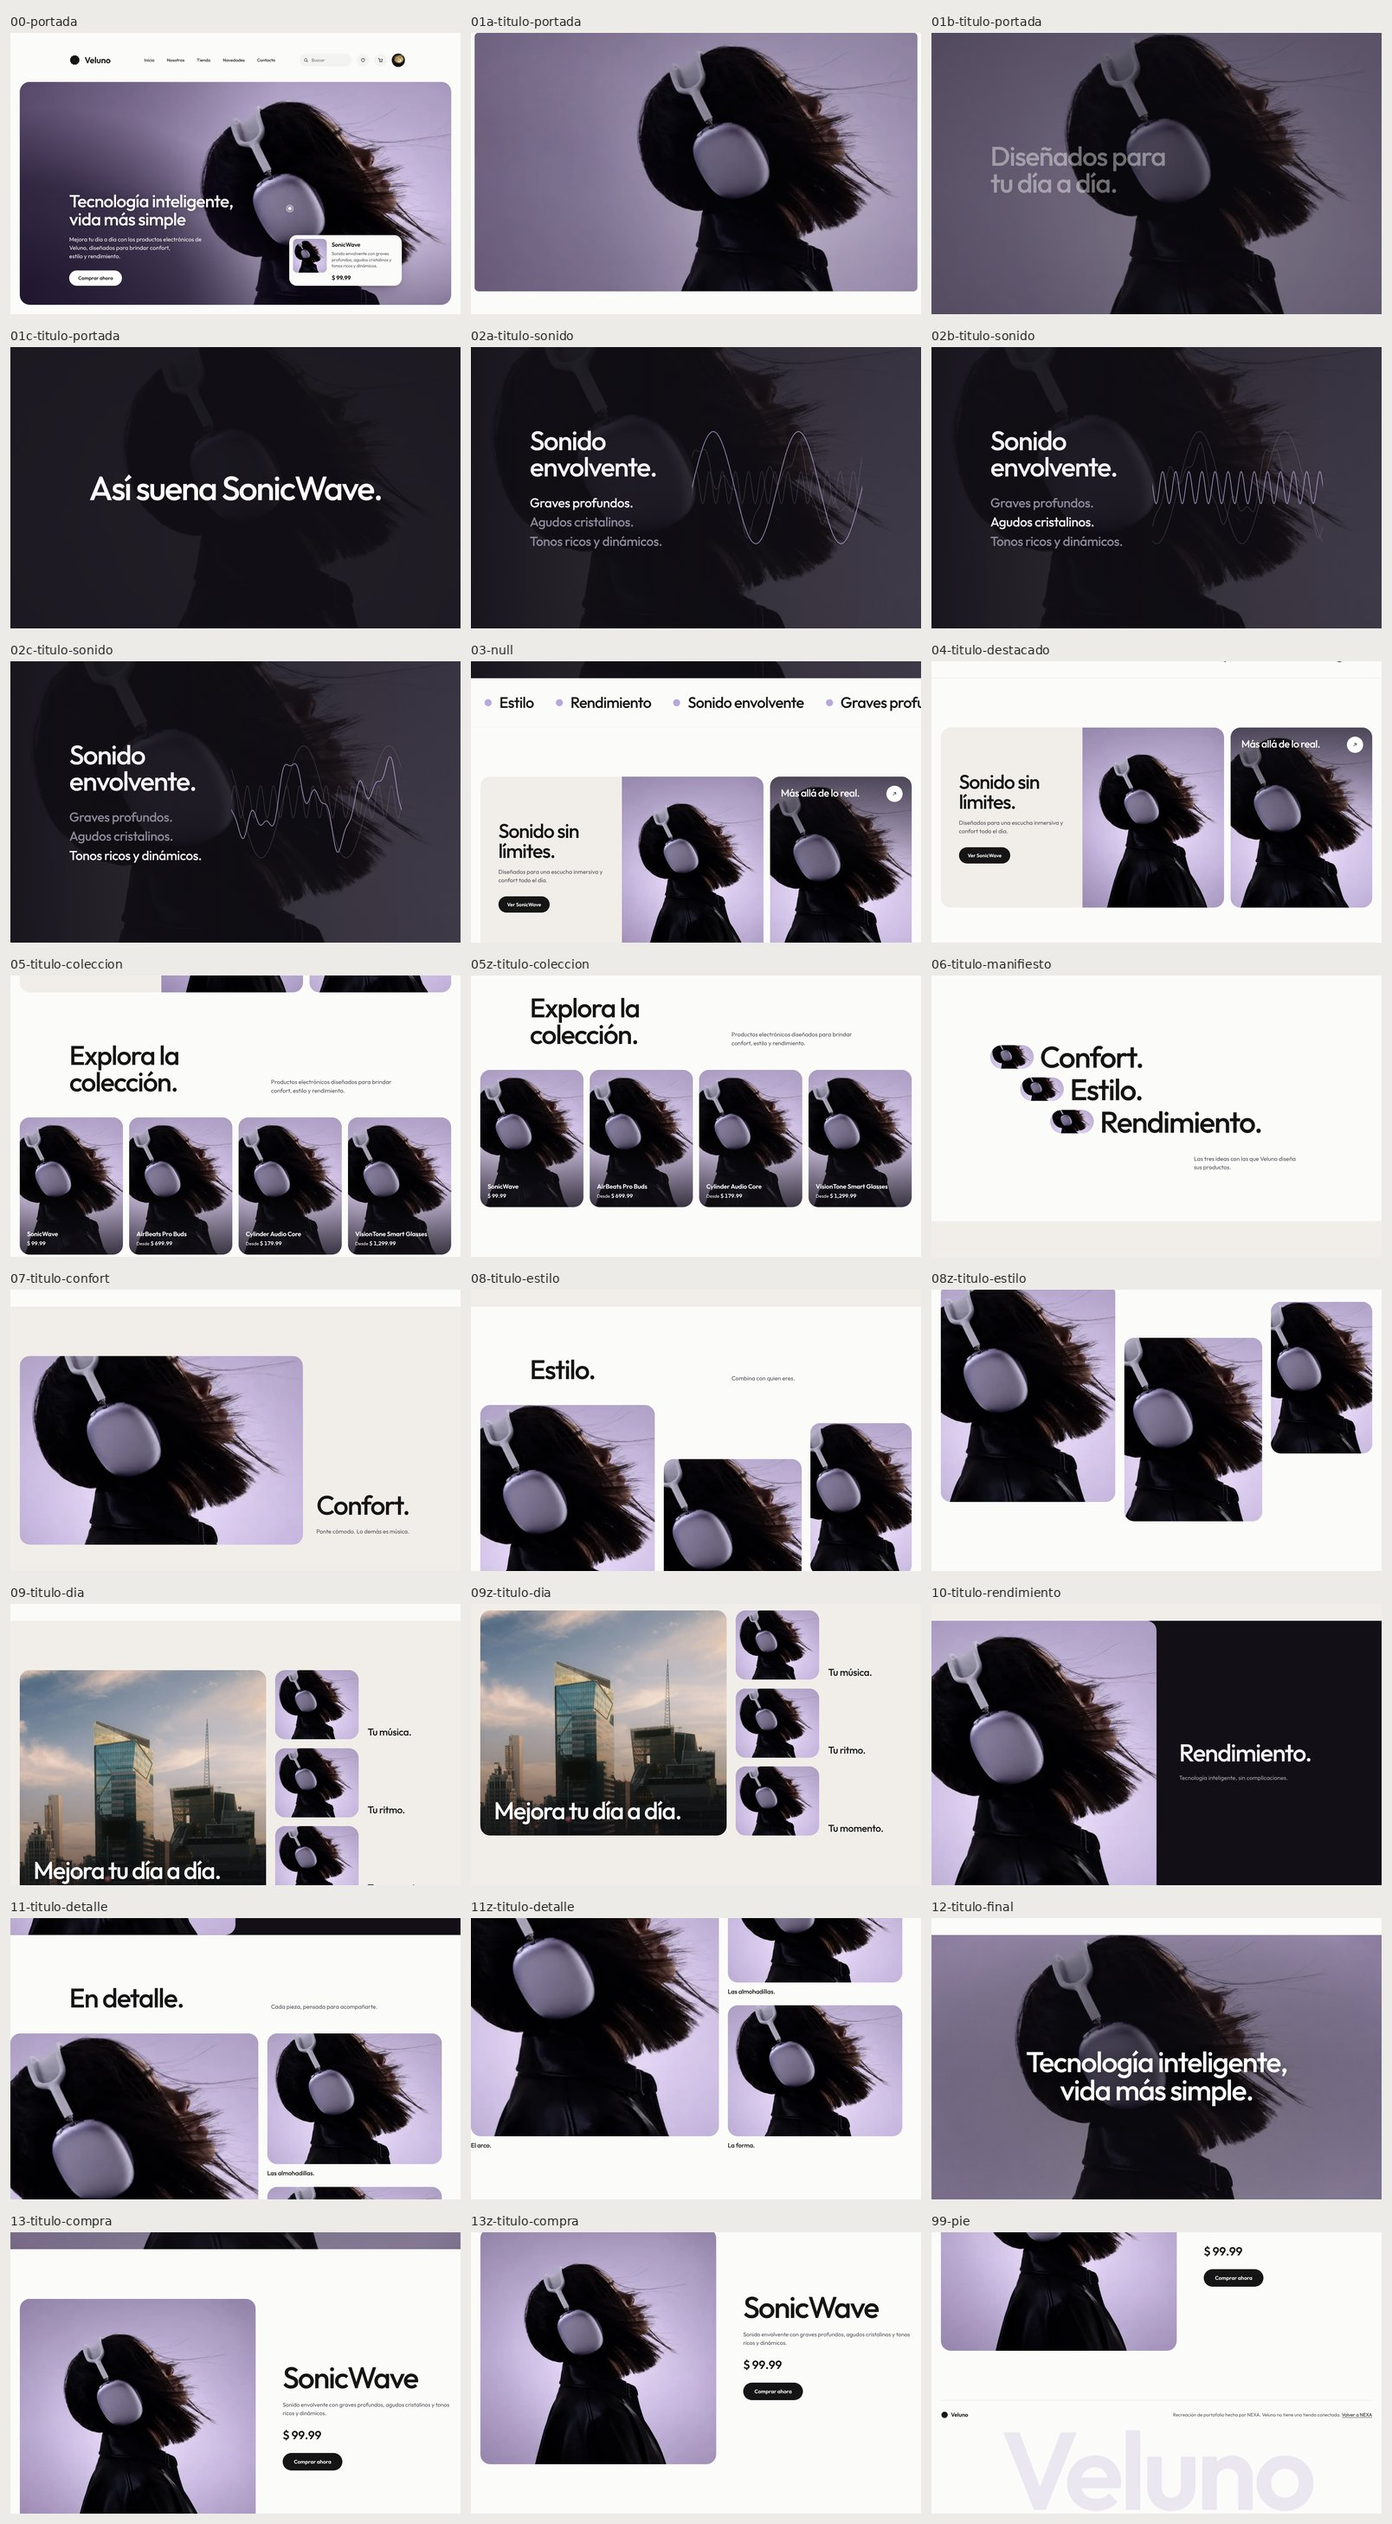
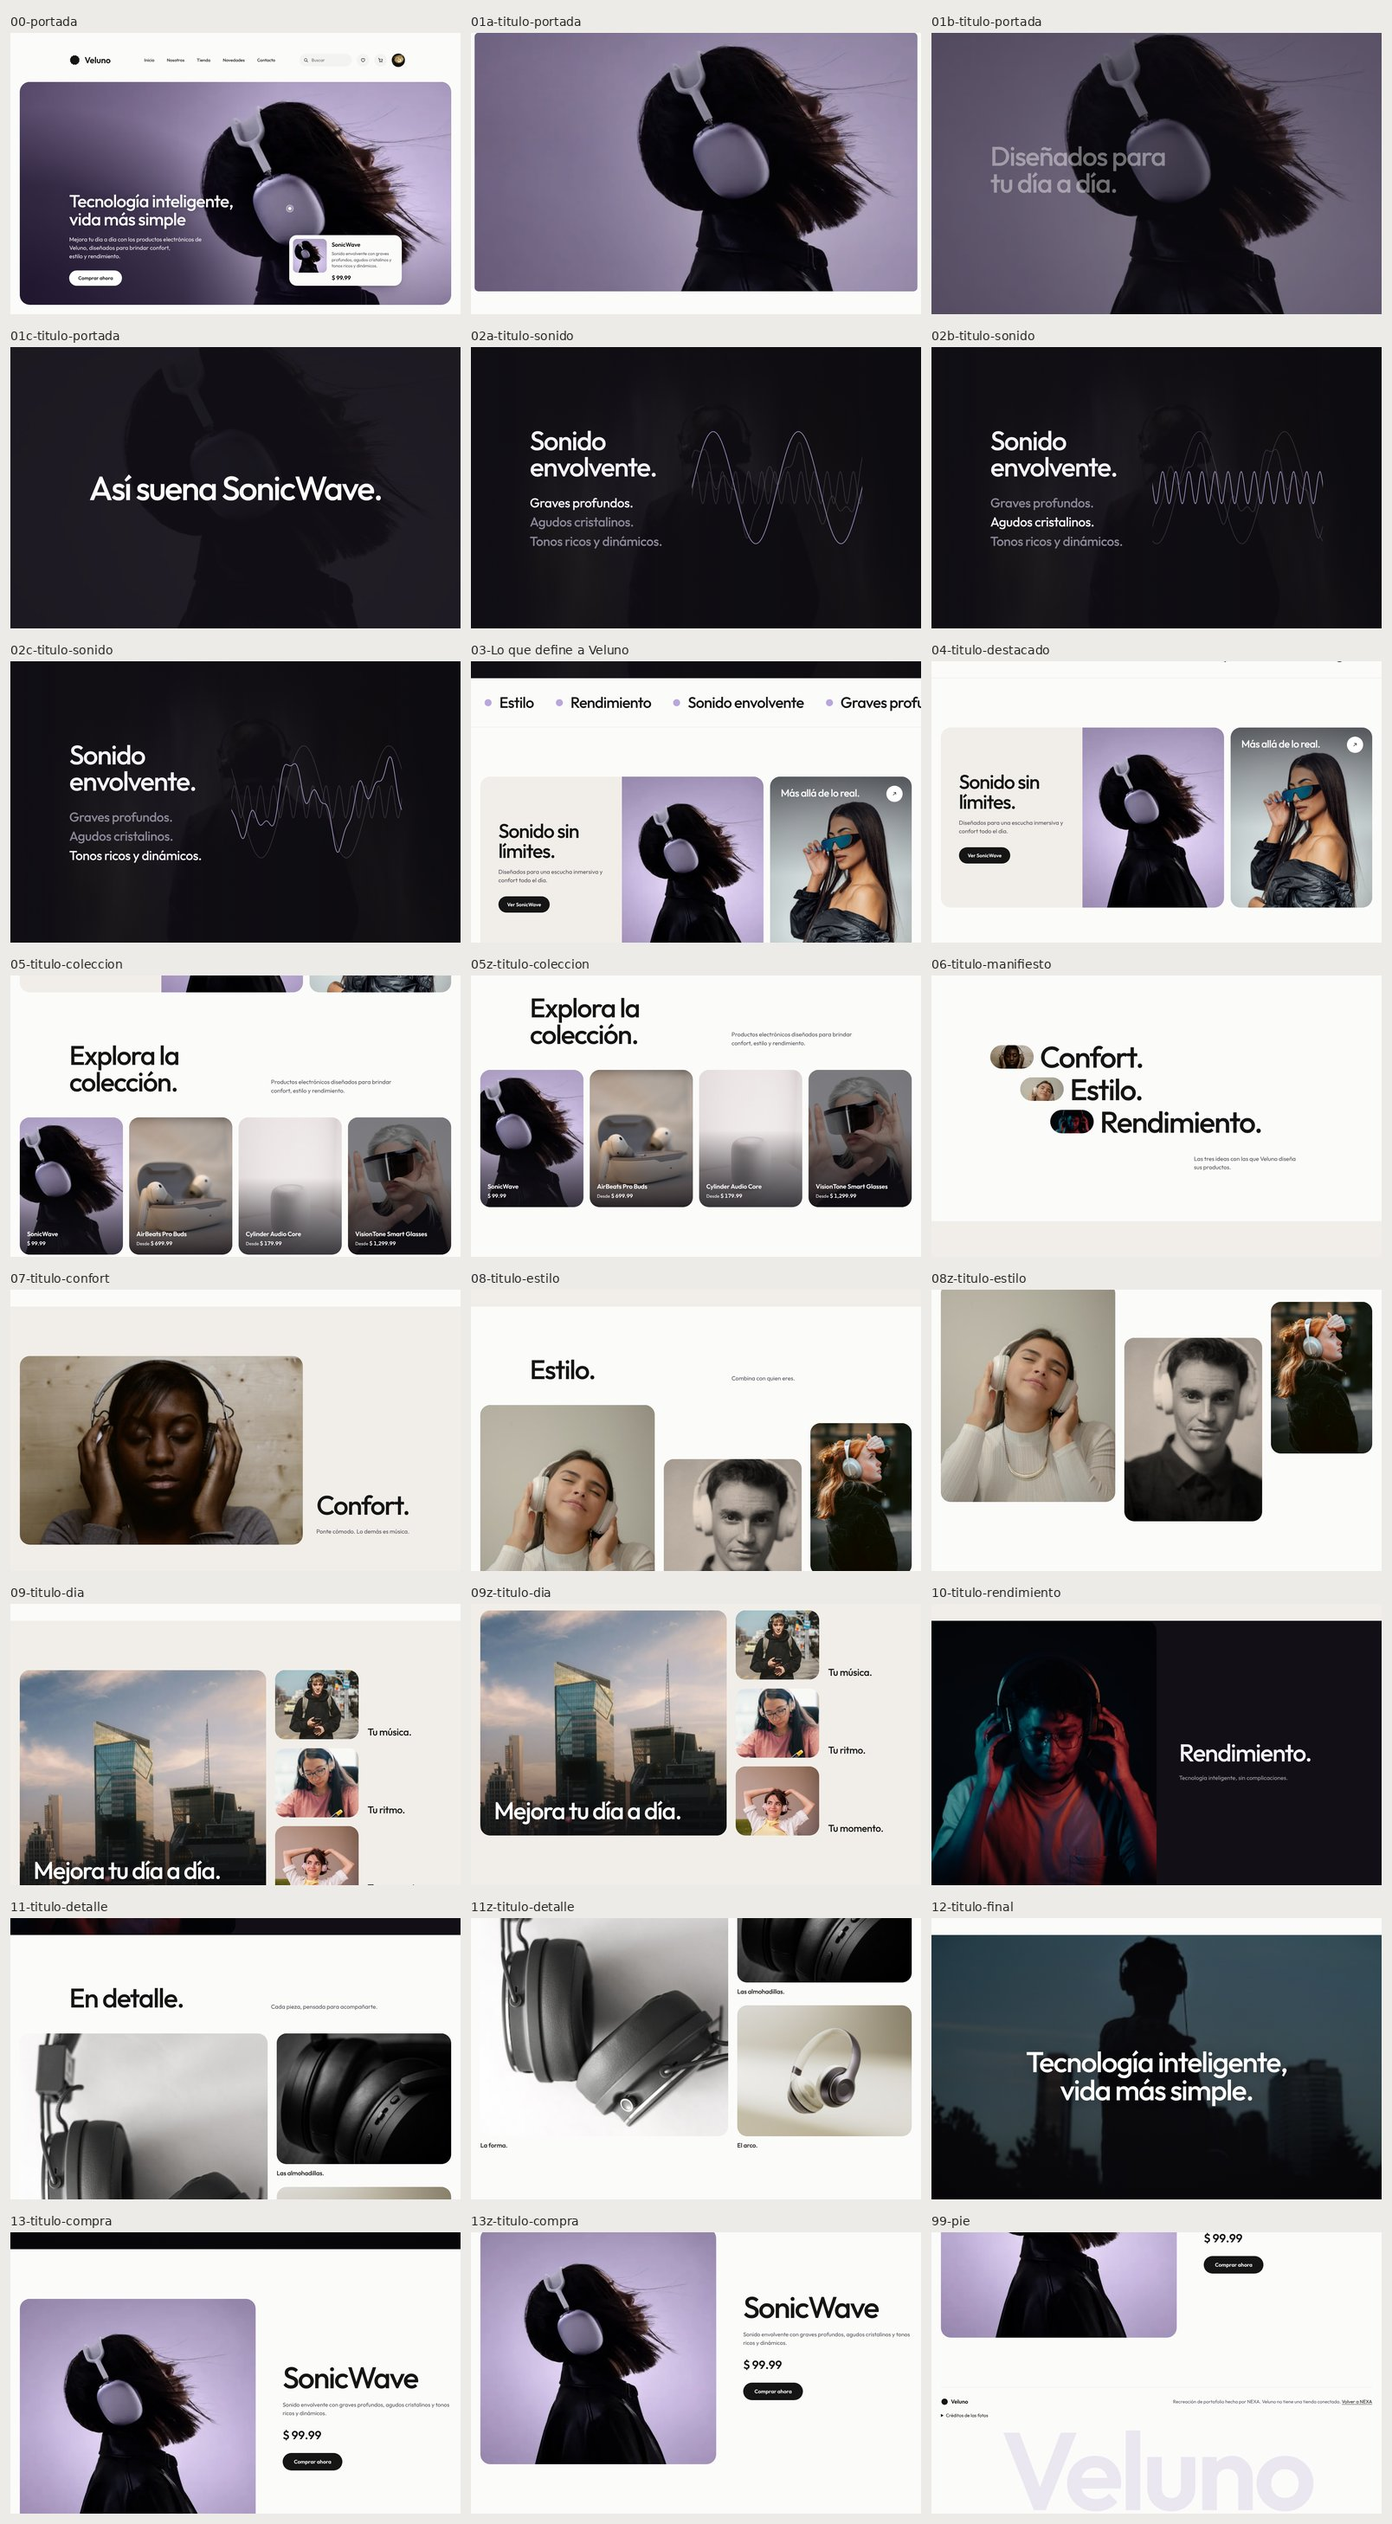
feat(veluno): 17 fotos de Unsplash en alta resolución para la tienda
- Fotos elegidas por hueco (sonido, colección, destacado, confort, estilo,
  rendimiento, día a día, en detalle y cierre), sin logotipos visibles,
  servidas desde images.unsplash.com a través del optimizador de Next.
- Créditos en un solo lugar (lib/creditos.ts), con prueba que comprueba que
  coinciden con las fotos que usa la landing.
- Mosaico de «En detalle» centrado (el reset de margen anulaba el centrado).
- Texto de «Rendimiento» con margen lateral en móvil.
- Penumbra más firme en las tarjetas de la colección (contraste ≥ 4,5:1 en
  la foto más clara).
- Hojas de contacto actualizadas a 1440 y 390.

Claude-Session: https://claude.ai/code/session_01ENxmkRaiVJRRvyRQGjrWnb

diff --git a/app/(es)/demos/veluno/fotos/index.ts b/app/(es)/demos/veluno/fotos/index.ts
@@ -19,7 +19,6 @@ export type Foto = {
   posicion?: string;
   /** Color dominante: fondo del marco mientras llega una foto remota. */
   color?: string;
-  credito?: { autor: string; enlace: string };
 };
 
 /** URL de Unsplash a 2400 px: la fuente que el optimizador de Next recorta a cada ancho. */
@@ -45,21 +44,138 @@ const ciudad: Foto = {
   posicion: "50% 60%",
 };
 
-// PROVISIONAL hasta elegir las fotos de Unsplash: se reemplaza entrada por entrada.
-const provisional: Foto = { ...retrato, alt: "" };
-void unsplash;
+// Unsplash: elegidas sin logotipos ni marcas visibles, con luz y paleta acordes a la página.
+// Autores y enlaces en lib/creditos.ts (una prueba comprueba que coinciden con estas fotos).
+const sonido: Foto = {
+  src: unsplash("photo-1756706916864-0e4ed0fa85cf"),
+  alt: "Persona de espaldas con auriculares de diadema, de pie en penumbra frente a un fondo oscuro con suaves trazos de luz vertical",
+  posicion: "50% 40%",
+  color: "#262626",
+};
+
+const airbeats: Foto = {
+  src: unsplash("photo-1739764575613-ecc078ed173d"),
+  alt: "Auriculares inalambricos blancos asomando de su estuche de carga abierto, sobre una superficie lisa de tono blanco roto calido",
+  posicion: "50% 60%",
+  color: "#c0a6a6",
+};
+
+const cylinder: Foto = {
+  src: unsplash("photo-1761384409444-2f8359d67a69"),
+  alt: "Altavoz inteligente cilindrico de malla blanca sobre una mesa blanca, con luz natural suave y una pared clara de fondo",
+  posicion: "50% 66%",
+  color: "#d9d9d9",
+};
+
+const visiontone: Foto = {
+  src: unsplash("photo-1618902544104-7ebfb9849b4d"),
+  alt: "Persona de cabello platino con un visor futurista de lente oscura envolvente; levanta las manos frente a la cámara como si manejara una interfaz invisible, sobre un fondo gris liso de estudio",
+  posicion: "50% 35%",
+  color: "#737373",
+};
+
+const allaDeLoReal: Foto = {
+  src: unsplash("photo-1548659545-93415a88191c"),
+  alt: "Mujer de cabello largo y liso con gafas de escudo futuristas de lente azul espejada; se las ajusta con una mano y lleva una chaqueta negra satinada caída sobre los hombros, ante un fondo gris claro de estudio",
+  posicion: "50% 28%",
+  color: "#d9d9d9",
+};
+
+const confort: Foto = {
+  src: unsplash("photo-1668092834733-60f7c0d567a1"),
+  alt: "Mujer con los ojos cerrados sostiene con ambas manos unos auriculares de diadema claros frente a una pared de madera clara",
+  posicion: "50% 35%",
+  color: "#a6a68c",
+};
+
+const estiloUno: Foto = {
+  src: unsplash("photo-1625786682948-2168238883d2"),
+  alt: "Mujer de cabello castaño con auriculares de diadema blancos, ojos cerrados y manos sobre las orejas, con jersey blanco de punto y collar dorado ante una pared beige lisa",
+  posicion: "50% 30%",
+  color: "#a6a68c",
+};
+
+const estiloDos: Foto = {
+  src: unsplash("photo-1759432172550-6e77baf8bd46"),
+  alt: "Retrato en tono sepia de un hombre joven de pelo corto oscuro, con auriculares de diadema claros y camisa negra, mirando de frente a cámara sobre fondo liso",
+  posicion: "50% 30%",
+  color: "#c0a6a6",
+};
+
+const estiloTres: Foto = {
+  src: unsplash("photo-1730973915515-e79273d90b7c"),
+  alt: "Mujer pelirroja con auriculares de diadema plateados, de perfil, mirando hacia arriba con la mano en la frente, con abrigo negro sobre fondo urbano oscuro desenfocado",
+  posicion: "50% 30%",
+  color: "#262626",
+};
+
+const rendimiento: Foto = {
+  src: unsplash("photo-1723912628184-dfde150fab82"),
+  alt: "Hombre con gafas que se ajusta unos auriculares de diadema con ambas manos, con los ojos bajos y concentrado, iluminado por luz roja y azul verdosa sobre un fondo negro",
+  posicion: "50% 35%",
+  color: "#260c0c",
+};
+
+const manana: Foto = {
+  src: unsplash("photo-1790438329317-e64a2dc12adc"),
+  alt: "Joven con auriculares de diadema y mochila camina por una acera de la ciudad bajo el sol de la mañana, mirando su teléfono",
+  posicion: "50% 30%",
+  color: "#262626",
+};
+
+const ritmo: Foto = {
+  src: unsplash("photo-1759984782169-36efef7ed33e"),
+  alt: "Mujer joven con gafas y auriculares claros estudia y subraya apuntes con rotuladores de colores en un escritorio junto a una ventana luminosa",
+  posicion: "50% 30%",
+  color: "#f3f3f3",
+};
+
+const momento: Foto = {
+  src: unsplash("photo-1713863574532-aea8fab1e4a8"),
+  alt: "Mujer sonriente con auriculares rosa y blanco se estira relajada en un sofá verde de terciopelo frente a una pared beige cálida",
+  posicion: "50% 35%",
+  color: "#a68c73",
+};
+
+const detalleUno: Foto = {
+  src: unsplash("photo-1674989844487-722ec77b9b81"),
+  alt: "Macro de unos auriculares de diadema grises sobre fondo blanco: almohadillas de piel sintética, la pieza de ajuste del arco y la articulación metálica de una copa",
+  posicion: "50% 50%",
+  color: "#f3f3f3",
+};
+
+const detalleDos: Foto = {
+  src: unsplash("photo-1658927420074-85930da203ec"),
+  alt: "Macro en blanco y negro de unos auriculares de diadema negros: la almohadilla mullida y los botones de control en el borde de la copa, con luz rasante",
+  posicion: "50% 50%",
+  color: "#404040",
+};
+
+const detalleTres: Foto = {
+  src: unsplash("photo-1737291937135-3a0fcb5e0c44"),
+  alt: "Auriculares de diadema en crema y gris metalizado, suspendidos en el aire sobre un fondo degradado en tono arena",
+  posicion: "50% 55%",
+  color: "#d9d9d9",
+};
+
+const final: Foto = {
+  src: unsplash("photo-1597352651426-56ccf1dbc926"),
+  alt: "Silueta de un hombre con auriculares de diadema y cable recortada contra el cielo azul del anochecer, con rascacielos y arboles al fondo",
+  posicion: "40% 50%",
+  color: "#597373",
+};
 
 export const FOTOS_LANDING = {
   retrato,
   producto,
   ciudad,
-  sonido: provisional,
-  allaDeLoReal: provisional,
-  coleccion: { airbeats: provisional, cylinder: provisional, visiontone: provisional },
-  confort: provisional,
-  estilo: [provisional, provisional, provisional] as const,
-  rendimiento: provisional,
-  dia: [provisional, provisional, provisional] as const,
-  detalle: [provisional, provisional, provisional] as const,
-  final: { ...producto, alt: "" },
+  sonido,
+  allaDeLoReal,
+  coleccion: { airbeats, cylinder, visiontone },
+  confort,
+  estilo: [estiloUno, estiloDos, estiloTres] as const,
+  rendimiento,
+  dia: [manana, ritmo, momento] as const,
+  detalle: [detalleUno, detalleDos, detalleTres] as const,
+  final,
 };

diff --git a/app/(es)/demos/veluno/lib/creditos.ts b/app/(es)/demos/veluno/lib/creditos.ts
@@ -13,4 +13,22 @@ export type Credito = {
   enlace: string;
 };
 
-export const CREDITOS: readonly Credito[] = [];
+export const CREDITOS: readonly Credito[] = [
+  { id: "XYi6_1YFMYo", foto: "photo-1756706916864-0e4ed0fa85cf", autor: "Qiu MinFeng", enlace: "https://unsplash.com/photos/person-wearing-headphones-against-a-dark-background-XYi6_1YFMYo" },
+  { id: "x0wRdYOUxB8", foto: "photo-1739764575613-ecc078ed173d", autor: "juan daniel guzman zapata", enlace: "https://unsplash.com/photos/a-pair-of-white-earbuds-sitting-in-a-case-x0wRdYOUxB8" },
+  { id: "kDCIBGqU0_0", foto: "photo-1761384409444-2f8359d67a69", autor: "Howard Bouchevereau", enlace: "https://unsplash.com/photos/a-white-smart-speaker-on-a-white-surface-kDCIBGqU0_0" },
+  { id: "aK5uHV08dTc", foto: "photo-1618902544104-7ebfb9849b4d", autor: "ERNEST TARASOV", enlace: "https://unsplash.com/photos/woman-in-black-shirt-wearing-white-sunglasses-aK5uHV08dTc" },
+  { id: "edOXC3tcmZw", foto: "photo-1548659545-93415a88191c", autor: "Derek Perez", enlace: "https://unsplash.com/photos/woman-wearing-black-sunglasses-edOXC3tcmZw" },
+  { id: "Mwa8-6H9QPk", foto: "photo-1668092834733-60f7c0d567a1", autor: "Yohan Marion", enlace: "https://unsplash.com/photos/a-person-with-headphones-on-the-head-Mwa8-6H9QPk" },
+  { id: "-7Kkov230I0", foto: "photo-1625786682948-2168238883d2", autor: "Jair Medina Nossa", enlace: "https://unsplash.com/photos/woman-wearing-white-headphones--7Kkov230I0" },
+  { id: "tAkRAtNXQmE", foto: "photo-1759432172550-6e77baf8bd46", autor: "Andrey Soldatov", enlace: "https://unsplash.com/photos/man-wearing-white-headphones-and-black-shirt-tAkRAtNXQmE" },
+  { id: "kwIYYoBAfDc", foto: "photo-1730973915515-e79273d90b7c", autor: "Georgi Kalaydzhiev", enlace: "https://unsplash.com/photos/a-woman-wearing-headphones-standing-on-the-street-kwIYYoBAfDc" },
+  { id: "0wr-tTbbfc0", foto: "photo-1723912628184-dfde150fab82", autor: "Abdul Rahman", enlace: "https://unsplash.com/photos/a-man-wearing-headphones-while-sitting-in-the-dark-0wr-tTbbfc0" },
+  { id: "TENHzQWolE0", foto: "photo-1790438329317-e64a2dc12adc", autor: "Stefan Vibes", enlace: "https://unsplash.com/photos/young-man-walking-on-city-sidewalk-TENHzQWolE0" },
+  { id: "8KirD4yLCAs", foto: "photo-1759984782169-36efef7ed33e", autor: "Julio Lopez", enlace: "https://unsplash.com/photos/young-woman-wearing-headphones-glasses-and-pink-shirt-writing-8KirD4yLCAs" },
+  { id: "WsX2gGnSG1o", foto: "photo-1713863574532-aea8fab1e4a8", autor: "Look Studio", enlace: "https://unsplash.com/photos/a-woman-sitting-on-a-couch-wearing-headphones-WsX2gGnSG1o" },
+  { id: "2PMfmhFodRc", foto: "photo-1674989844487-722ec77b9b81", autor: "Berke Citak", enlace: "https://unsplash.com/photos/a-pair-of-headphones-sitting-on-top-of-each-other-2PMfmhFodRc" },
+  { id: "GkCpDprF3yw", foto: "photo-1658927420074-85930da203ec", autor: "Ritupon Baishya", enlace: "https://unsplash.com/photos/a-close-up-of-a-black-headphones-GkCpDprF3yw" },
+  { id: "TpDhqQCWY0s", foto: "photo-1737291937135-3a0fcb5e0c44", autor: "Kamran Abdullayev", enlace: "https://unsplash.com/photos/a-pair-of-headphones-floating-in-the-air-TpDhqQCWY0s" },
+  { id: "edP9ZXCXihY", foto: "photo-1597352651426-56ccf1dbc926", autor: "Zac Gudakov", enlace: "https://unsplash.com/photos/silhouette-of-man-wearing-headphones-edP9ZXCXihY" },
+];

diff --git a/app/(es)/demos/veluno/lib/creditos.test.ts b/app/(es)/demos/veluno/lib/creditos.test.ts
@@ -1,0 +1,30 @@
+import { readFileSync } from "node:fs";
+import { join } from "node:path";
+import { describe, expect, it } from "vitest";
+import { CREDITOS } from "./creditos";
+
+// fotos/index.ts importa .webp (no se puede cargar en node): se leen sus ids de Unsplash como texto.
+const catalogo = readFileSync(join(__dirname, "../fotos/index.ts"), "utf8");
+const fotosRemotas = [...catalogo.matchAll(/unsplash\("(photo-[0-9a-f-]+)"\)/g)].map((m) => m[1]);
+
+describe("CREDITOS", () => {
+  it("cada crédito tiene autor y un enlace a su foto en Unsplash", () => {
+    for (const credito of CREDITOS) {
+      expect(credito.autor.trim()).not.toBe("");
+      expect(credito.enlace).toMatch(/^https:\/\/unsplash\.com\/photos\//);
+      expect(credito.enlace.endsWith(credito.id)).toBe(true);
+      expect(credito.foto).toMatch(/^photo-[0-9a-f-]+$/);
+    }
+  });
+
+  it("no repite fotos", () => {
+    expect(new Set(CREDITOS.map((c) => c.id)).size).toBe(CREDITOS.length);
+    expect(new Set(CREDITOS.map((c) => c.foto)).size).toBe(CREDITOS.length);
+  });
+
+  it("acredita exactamente las fotos de Unsplash que usa la landing", () => {
+    expect(fotosRemotas.length).toBeGreaterThan(0);
+    expect(new Set(fotosRemotas).size).toBe(fotosRemotas.length);
+    expect([...fotosRemotas].sort()).toEqual(CREDITOS.map((c) => c.foto).sort());
+  });
+});

diff --git a/app/(es)/demos/veluno/secciones.module.css b/app/(es)/demos/veluno/secciones.module.css
@@ -332,7 +332,7 @@
   position: absolute;
   inset: 0;
   z-index: 1;
-  background: linear-gradient(0deg, rgb(18 16 22 / 0.78) 0%, rgb(18 16 22 / 0.32) 30%, rgb(18 16 22 / 0) 52%);
+  background: linear-gradient(0deg, rgb(18 16 22 / 0.82) 0%, rgb(18 16 22 / 0.5) 26%, rgb(18 16 22 / 0) 56%);
   pointer-events: none;
 }
 
@@ -643,7 +643,7 @@
   display: grid;
   grid-template-columns: repeat(12, minmax(0, 1fr));
   gap: clamp(1rem, 2vw, 2.5rem);
-  margin: 0;
+  margin-block: 0;
   padding: 0;
   list-style: none;
 }
@@ -803,8 +803,9 @@
     width: calc(100% - var(--borde));
   }
 
+  /* Fuera de un .bloque: suma el borde para alinearse con los textos de las demás secciones. */
   .rendimientoTexto {
-    padding: clamp(3rem, 10vw, 5rem) var(--interior) var(--seccion);
+    padding: clamp(3rem, 10vw, 5rem) calc(var(--borde) + max(0.75rem, var(--eje) - var(--lado))) var(--seccion);
   }
 
   .mosaicoPieza:nth-child(n) {

diff --git a/app/(es)/demos/veluno/data.ts b/app/(es)/demos/veluno/data.ts
@@ -121,7 +121,7 @@ export const CONTENIDO: Contenido = {
   detalle: {
     titulo: "En detalle.",
     texto: "Cada pieza, pensada para acompañarte.",
-    rotulos: ["El arco.", "Las almohadillas.", "La forma."],
+    rotulos: ["La forma.", "Las almohadillas.", "El arco."],
   },
   cierre: "Tecnología inteligente, vida más simple.",
 };
